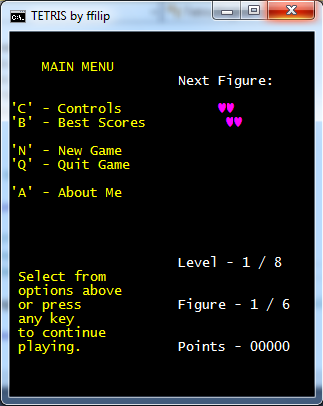
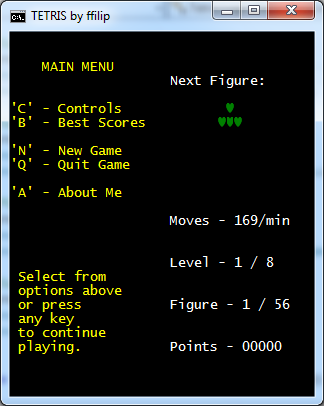
Updated pictures

diff --git a/Tetris/Logic/Game/BaseLogic/Essentials/InfoPanel.cs b/Tetris/Logic/Game/BaseLogic/Essentials/InfoPanel.cs
@@ -28,7 +28,7 @@ namespace Tetris.Logic.Game.BaseLogic.Essentials
 
             //Current speed
             CursorPosition(lastRow - 13);
-            Console.Write("Speed - ");
+            Console.Write("Moves - ");
             Console.Write(60000 / GameData.speed + "/min");
 
             //Current level

diff --git a/Tetris/Logic/GameData.cs b/Tetris/Logic/GameData.cs
@@ -5,7 +5,7 @@ namespace Tetris.Logic
 {
     internal struct GameData
     {
-        internal const int LevelsCount = 7;
+        internal const int LevelsCount = 8;
         internal const int FiguresPerLevel = 56;
 
         internal const int PointPerLine = 28;
